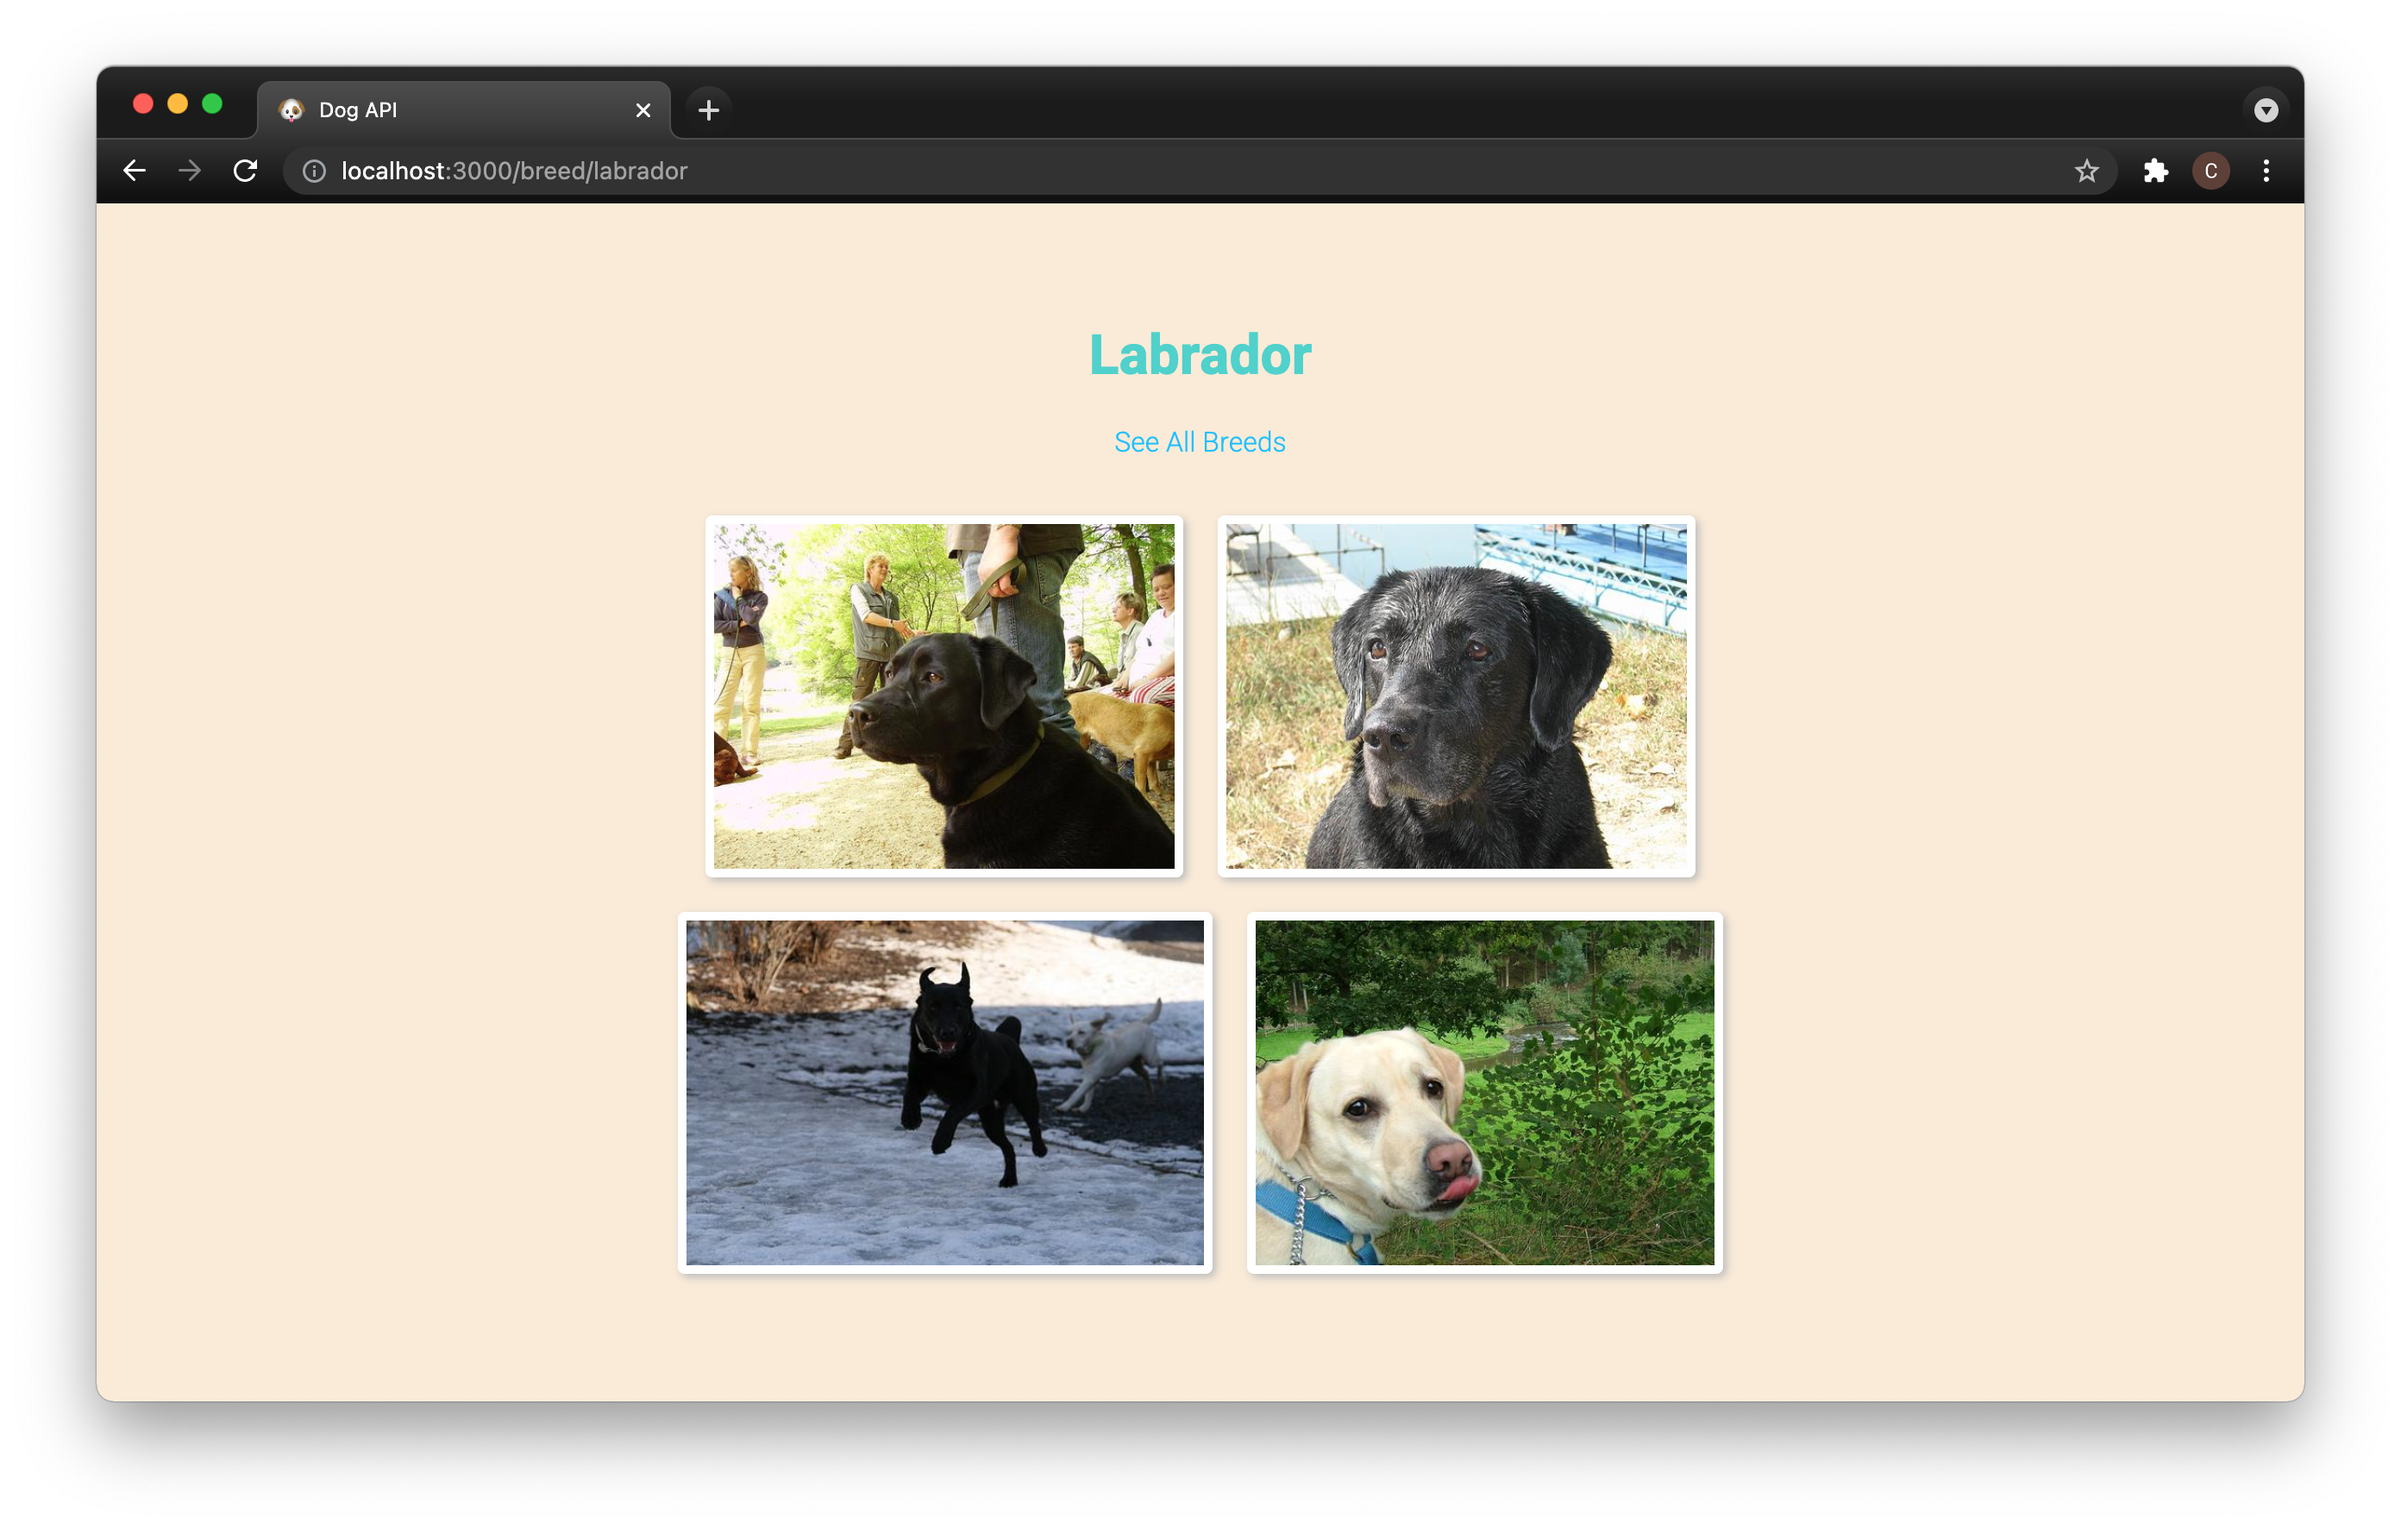
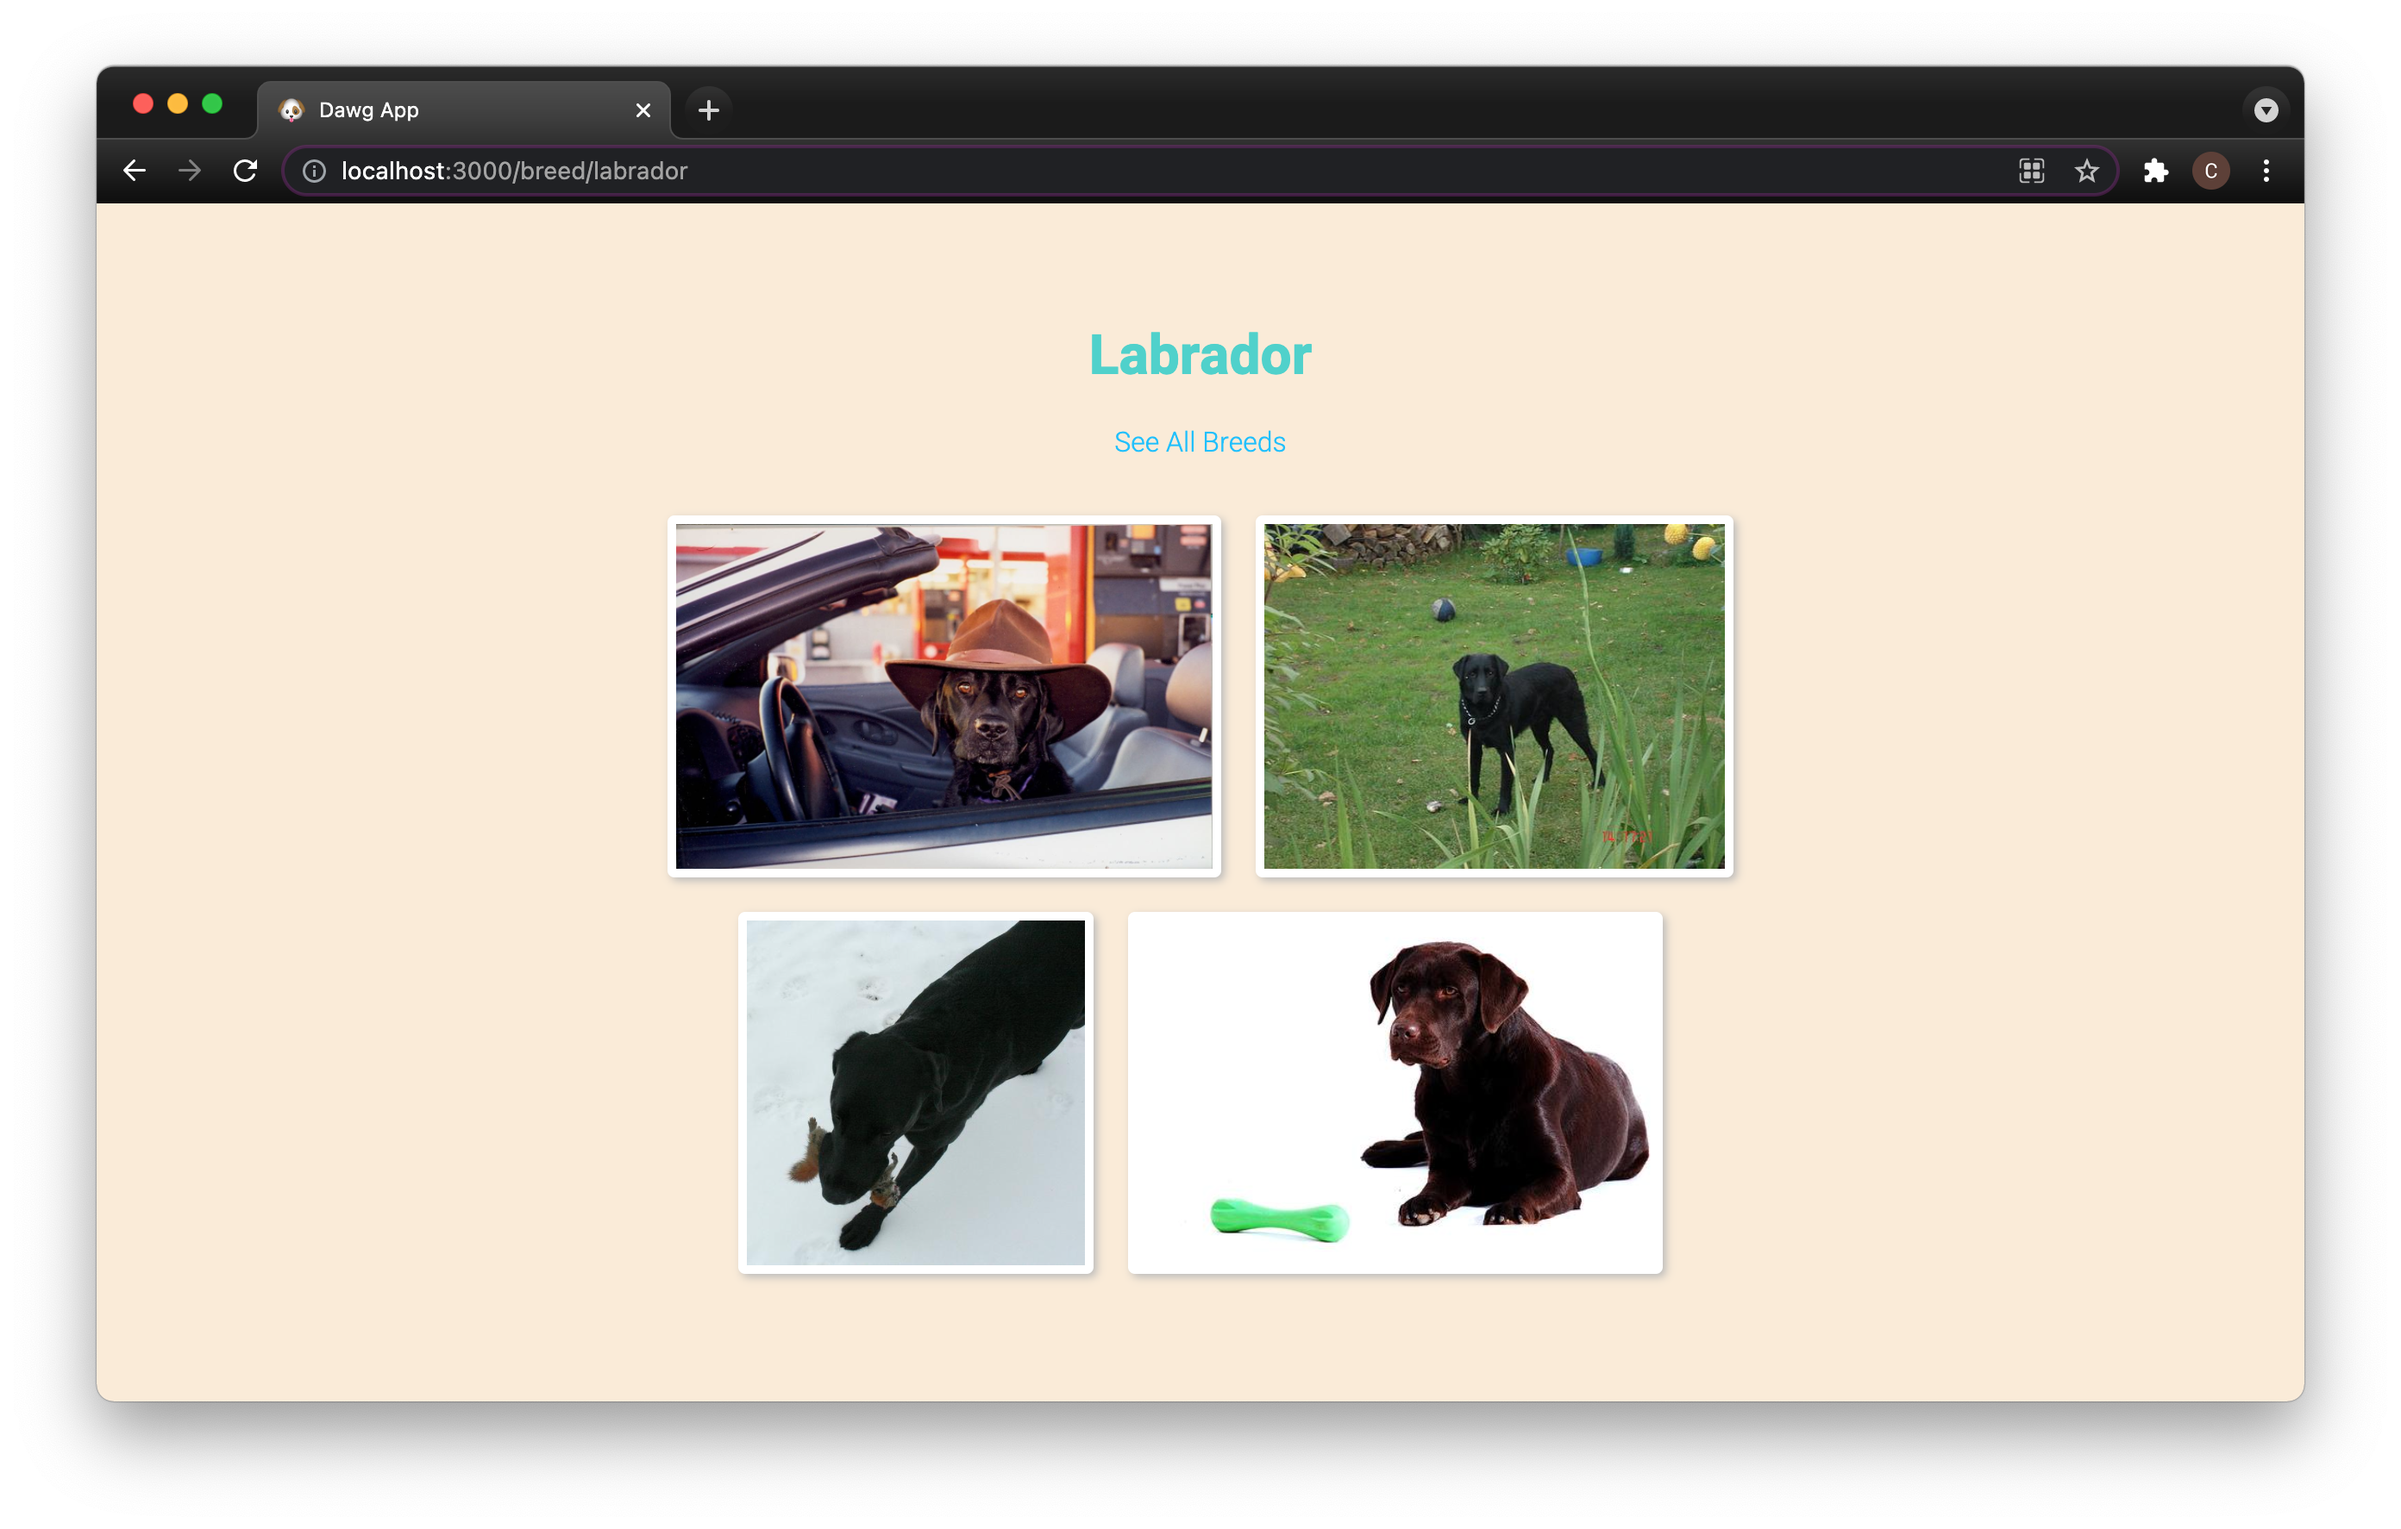
update README

Changed region(s): [[0.25, 0.341, 0.75, 0.8371], [0.8438, 0.093, 0.875, 0.124], [0.1562, 0.062, 0.1875, 0.093]]

diff --git a/README.md b/README.md
@@ -2,7 +2,7 @@
 Dawg App is an app that displays a list of dog breeds using the [Dog API](https://www.notion.so/Accountability-Partnership-3a289b67302c4634849b54fa356a2503#84af46e66c64440385c61ff32809be95). Users can search and select a dog breed. Once a dog breed is selected, it takes the user to a separate page showing four random images of the breed. 
 
 ## Screenshots
-![main page](src/images/mainpage.png)
+![main page](src/images/homepage.png)
 ![dog breed page](src/images/dogpage.png)
 
 #### Technologies
@@ -10,7 +10,7 @@ Dawg App is an app that displays a list of dog breeds using the [Dog API](https:
 
 ## Installation 
 Clone this repository:\
-`git clone https://github.com/cmillecan/dog-api.git`
+`git clone https://github.com/cmillecan/dawg-app.git`
 
 From the project root directory:
 
